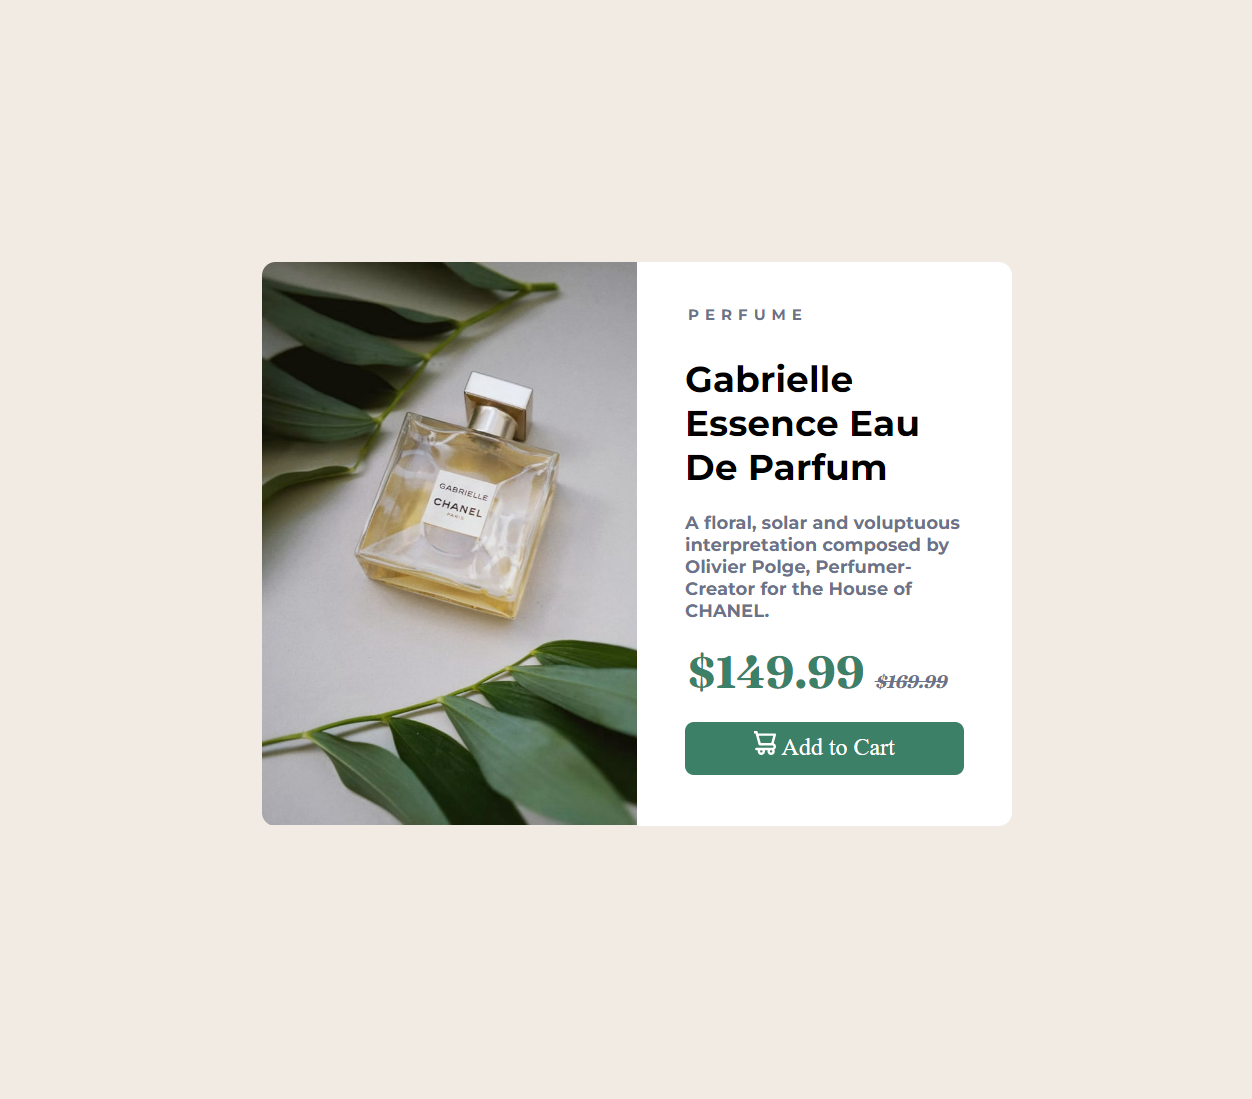
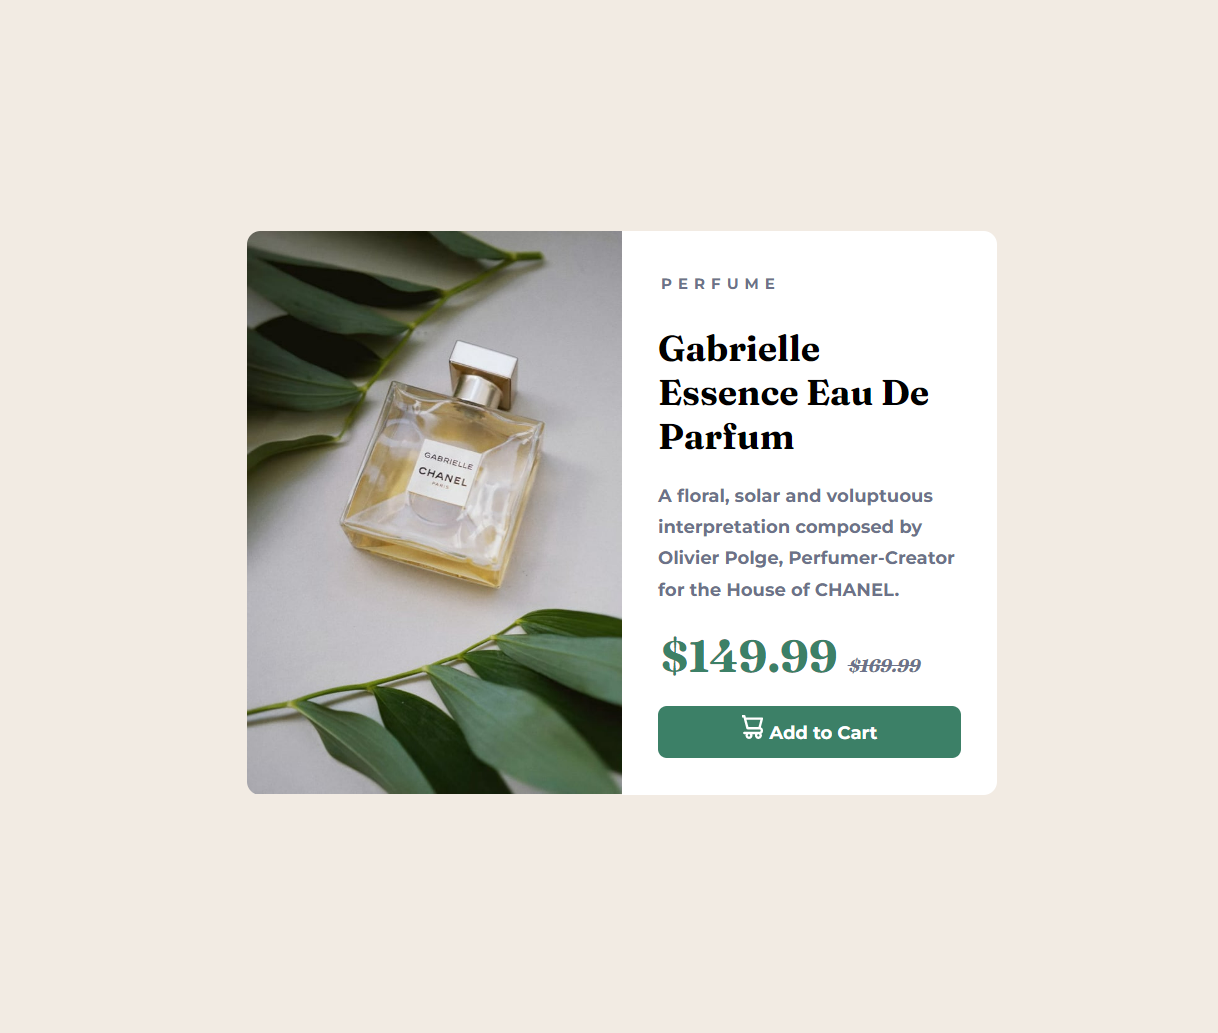
lastcommit

Changed region(s): [[0.1872, 0.2168, 0.8424, 0.7744]]

diff --git a/style.css b/style.css
@@ -53,6 +53,7 @@ div span {
 #para {
     font-family: 'Montserrat', sans-serif;
     font-size: 0.75rem;
+    line-height: 1.3rem;
     color: var(--neutral-color2);
 }
 
@@ -72,7 +73,7 @@ div span {
     width: 50%;
     height: 100%;
     gap: 0.937rem;
-    padding: 0 2rem;
+    padding: 0 1.5rem;
 }
 
 #pricing,#heading {
@@ -93,6 +94,8 @@ div span {
 #button_primary {
     width: 100%;
     height: 2.2rem;
+    font-size: 12px;
+    font-family: 'Montserrat', sans-serif;
     background-color: var(--primary-color);
     text-align: center;
     padding: 0.375rem;

diff --git a/README.md b/README.md
@@ -24,8 +24,8 @@ Users should be able to:
 
 ### Links
 
-- Solution URL: [Add solution URL here](https://your-solution-url.com)
-- Live Site URL: [Add live site URL here](https://your-live-site-url.com)
+- Solution URL: [solution URL](https://www.frontendmentor.io/solutions/productpreviewcardcomponent-o_OS1Kze1K)
+- Live Site URL: [live site URL](https://ram0o7.github.io/product-preview-card-component-main/)
 
 ### Built with
 
